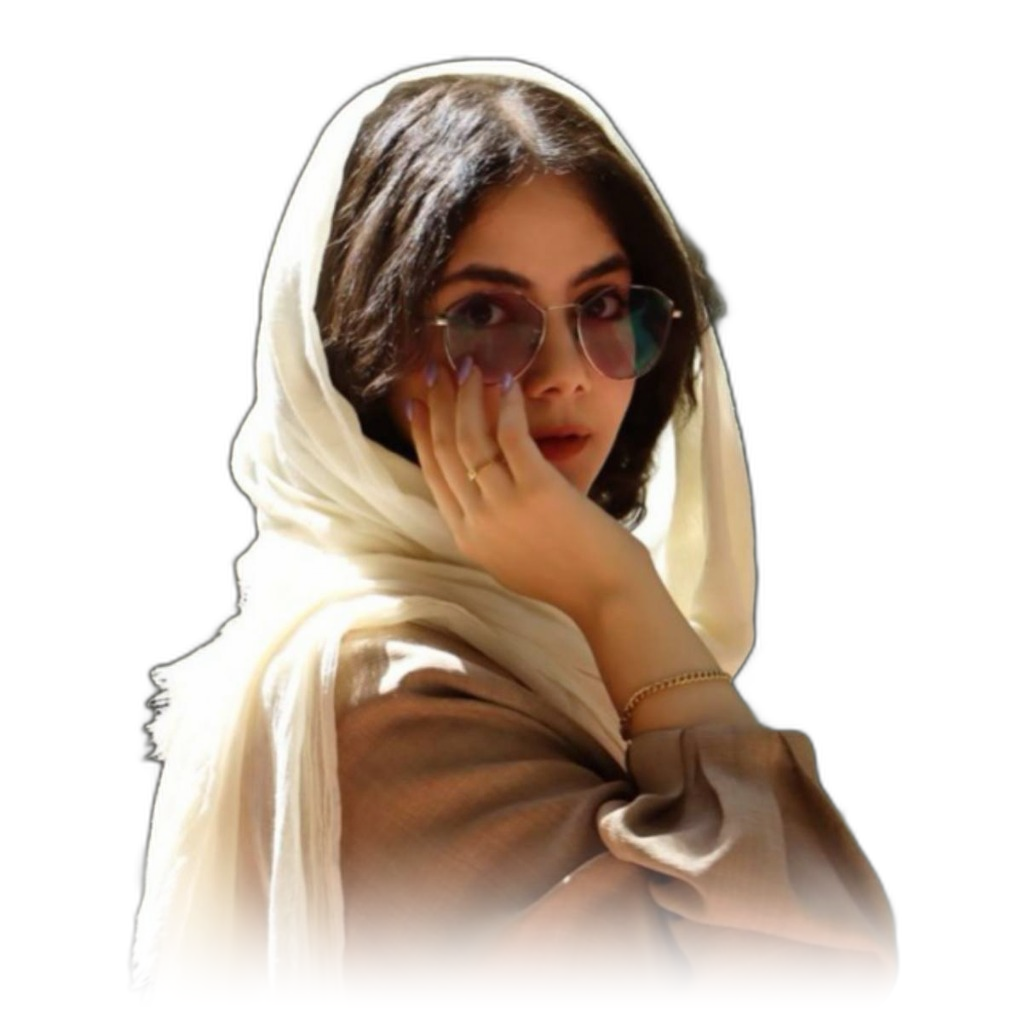
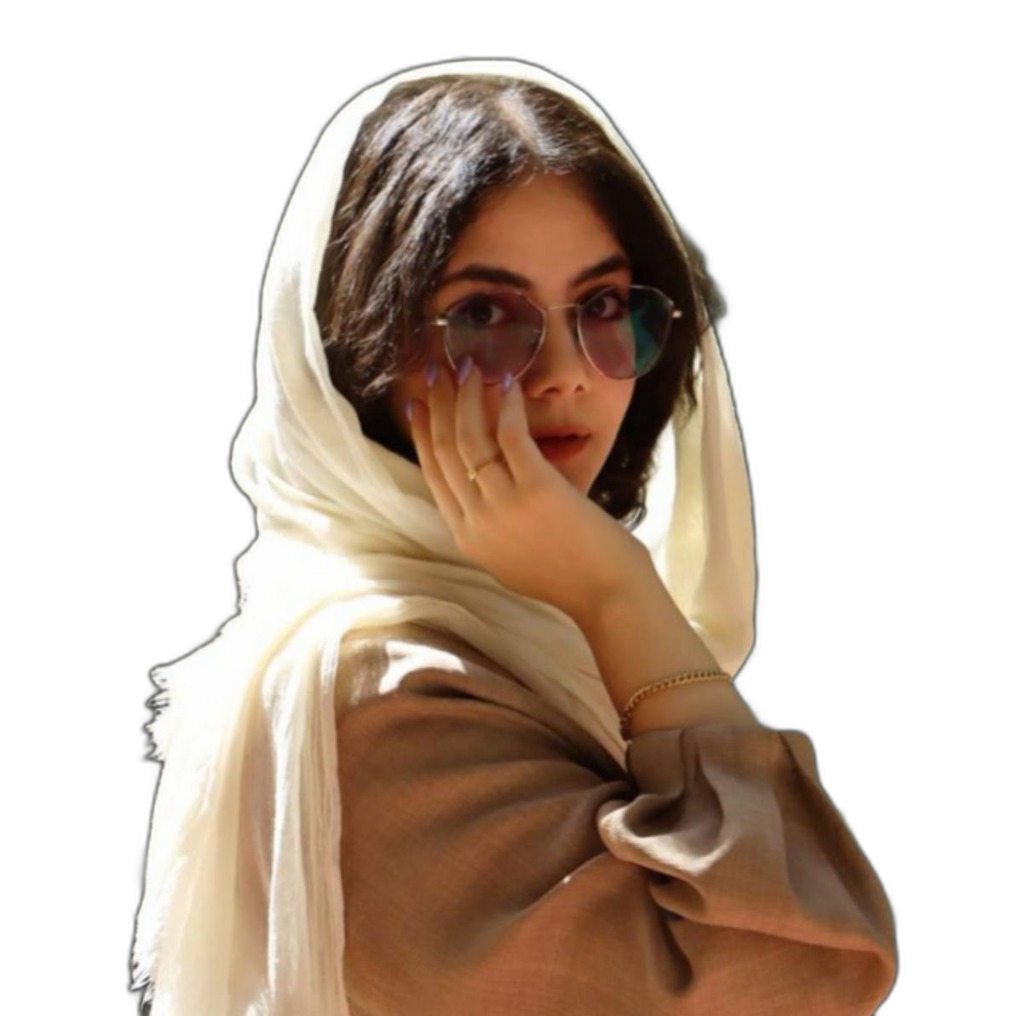
Remove Photoshop, InDesign and صفحهآرایی پرمیوم tags from catalog project

Changed region(s): [[0.125, 0.8238, 0.875, 1.0]]

diff --git a/src/config.ts b/src/config.ts
@@ -156,14 +156,14 @@ export const siteConfig = {
           caption: "تصویرسازی برداری کاراکتر پاندای تفکرگر",
         },
       ],
-      skills: ["طراحی پوستر", "تصویرسازی برداری", "تایپوگرافی سینمایی", "Character Design", "Illustrator", "Photoshop"],
+      skills: ["طراحی پوستر", "تایپوگرافی سینمایی", "Character Design", "Illustrator", "Photoshop"],
     },
     {
       name: "طراحی کاتالوگ لوکس و کتابچه محصولات (تصویرسازی با هوش مصنوعی AI)",
       description:
         "طراحی کاتالوگ پرمیوم و کتابچه تبلیغاتی برند بینالمللی LUXORA Furniture، با بهرهگیری از پرامپتنویسی و تولید تصاویر اختصاصی با هوش مصنوعی (AI Generated)، لایهبندی مدرن شبکهای، طراحی جلد مشکی-طلاکوب و آیکونگرافی ویژگیها.",
       image: "/images/luxora_catalog.jpg",
-      skills: ["طراحی با هوش مصنوعی (AI)", "تولید تصویر AI", "طراحی کاتالوگ", "صفحهآرایی پرمیوم", "InDesign", "Photoshop"],
+      skills: ["طراحی با هوش مصنوعی (AI)", "تولید تصویر AI", "طراحی کاتالوگ"],
     },
     {
       name: "طراحی کارت ویزیت و هویت بصری (گالری مبلمان اسدی)",
